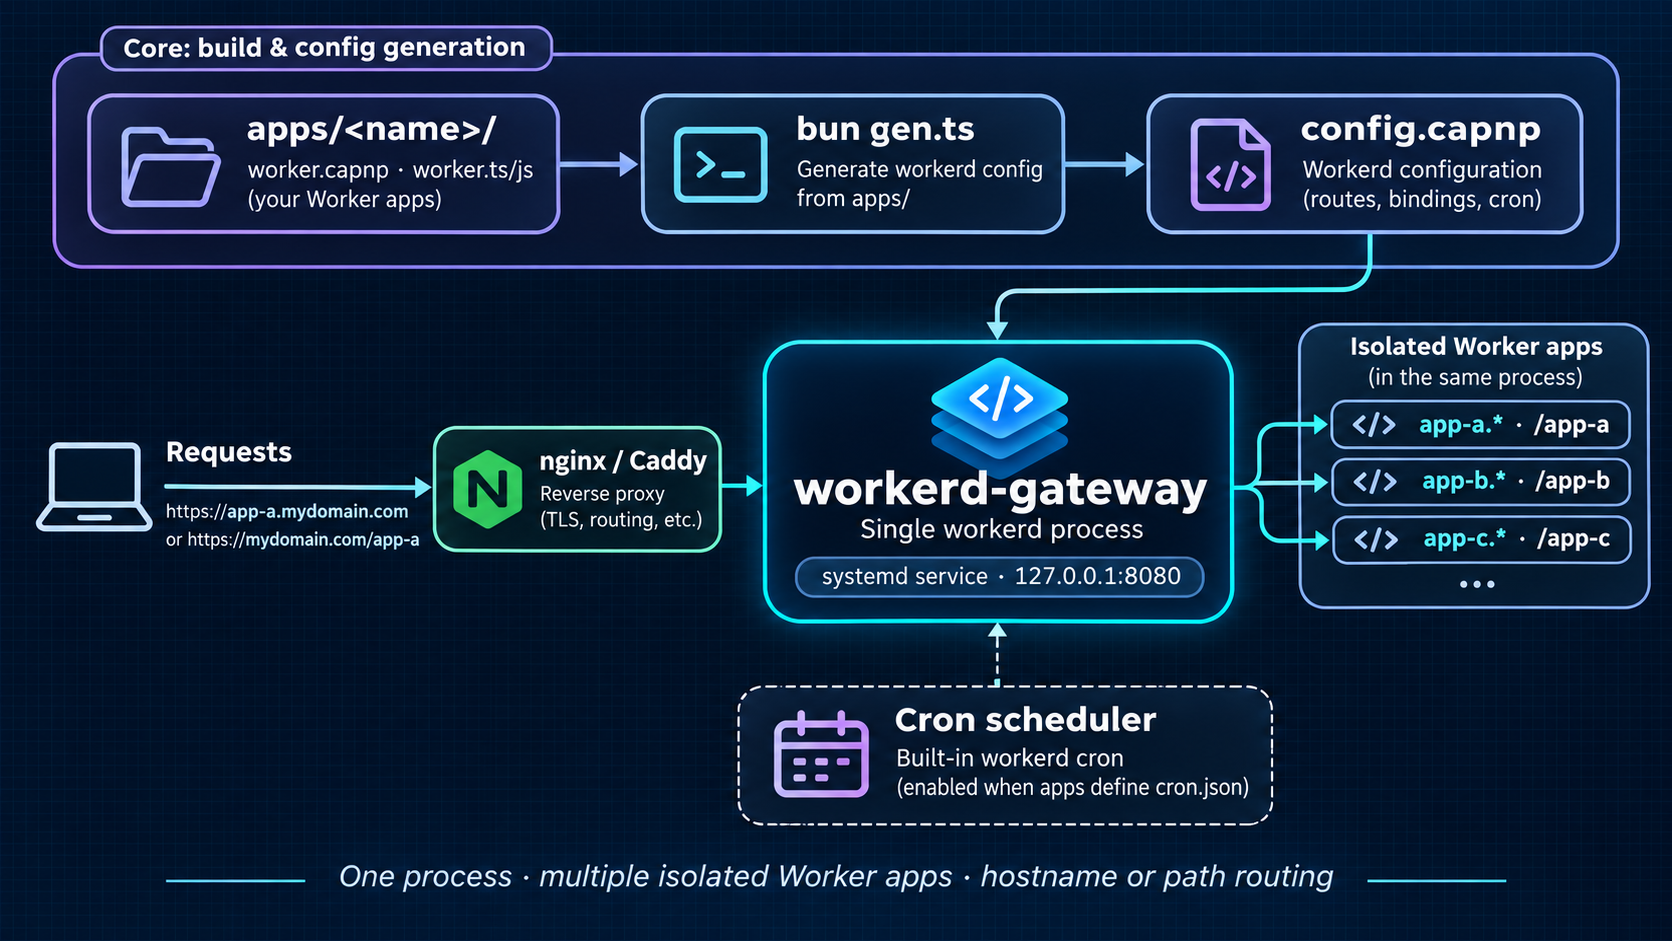
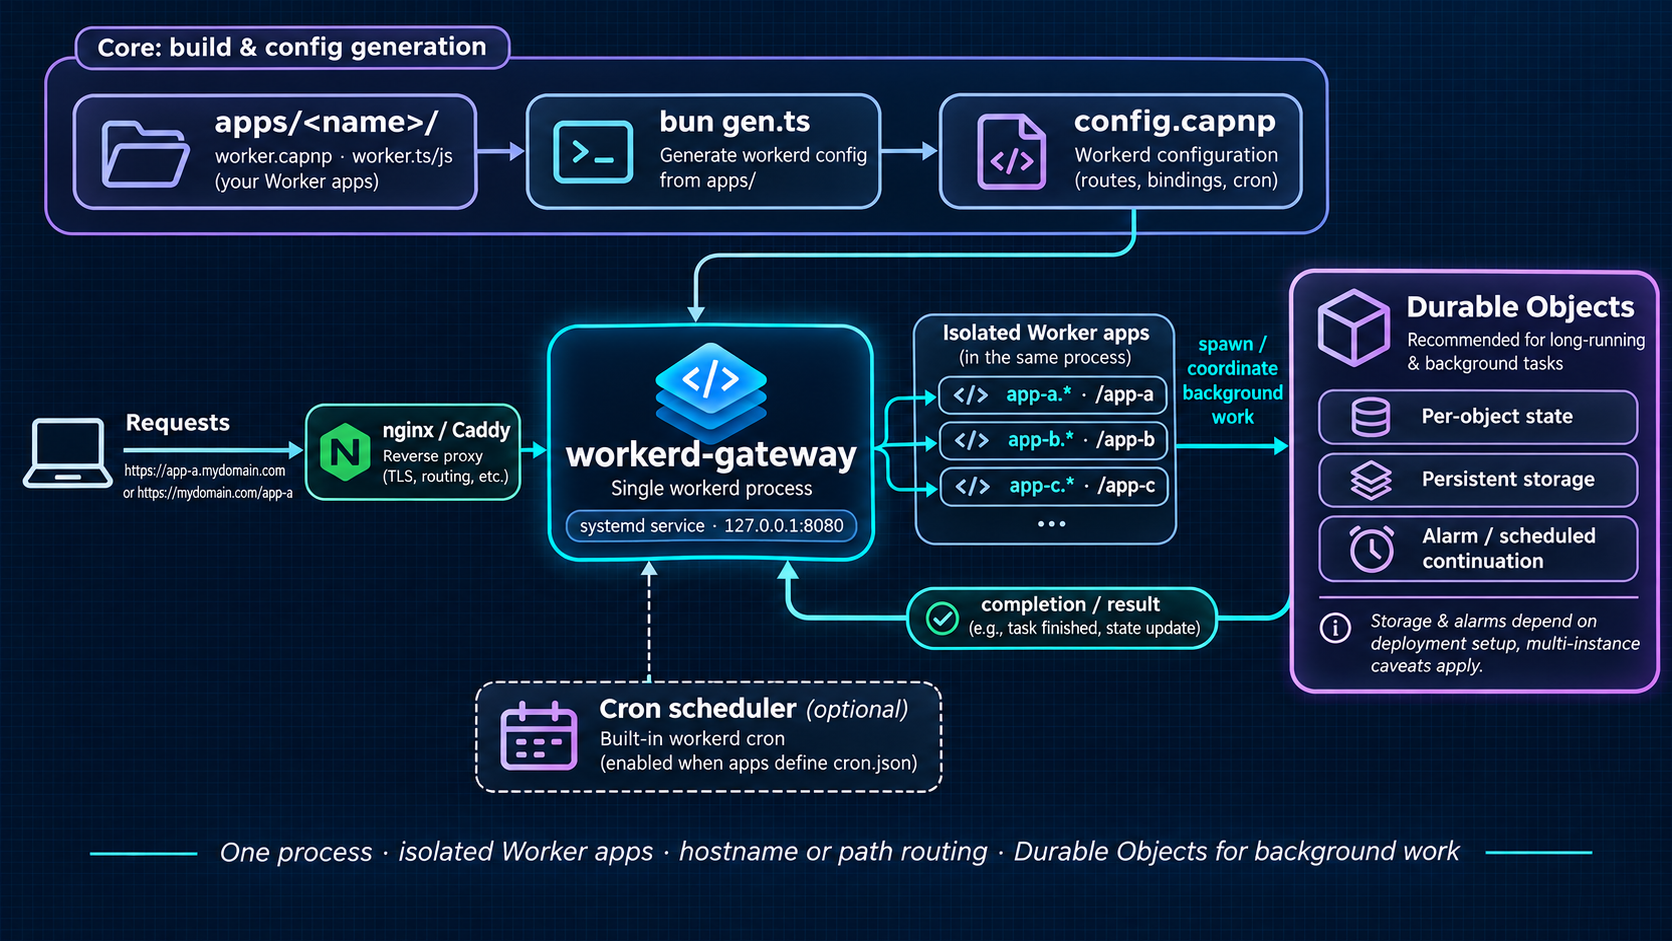
docs: update overview diagram to show Durable Objects for background work

Changed region(s): [[0.0, 0.0, 1.0, 0.8629], [0.0622, 0.8937, 0.9019, 0.9554], [0.9019, 0.8937, 0.933, 0.9245]]

diff --git a/README.md b/README.md
@@ -1,6 +1,6 @@
 # workerd-gateway
 
-![workerd-gateway overview: one workerd process hosting many apps, with routing, codegen, secrets, storage, databases, cache, jobs and observability around it](docs/overview.png)
+![workerd-gateway overview: apps/<name>/ folders go through bun gen.ts into config.capnp; requests pass nginx or Caddy to one workerd process that routes to isolated Worker apps by hostname or path; apps hand background work to Durable Objects with per-object state, persistent storage and alarms; an optional built-in cron scheduler triggers apps](docs/overview.png)
 
 One [workerd](https://github.com/cloudflare/workerd) process, run as a system-wide systemd service, hosts many apps.
 A small gateway worker in front of them picks the app for each request:
